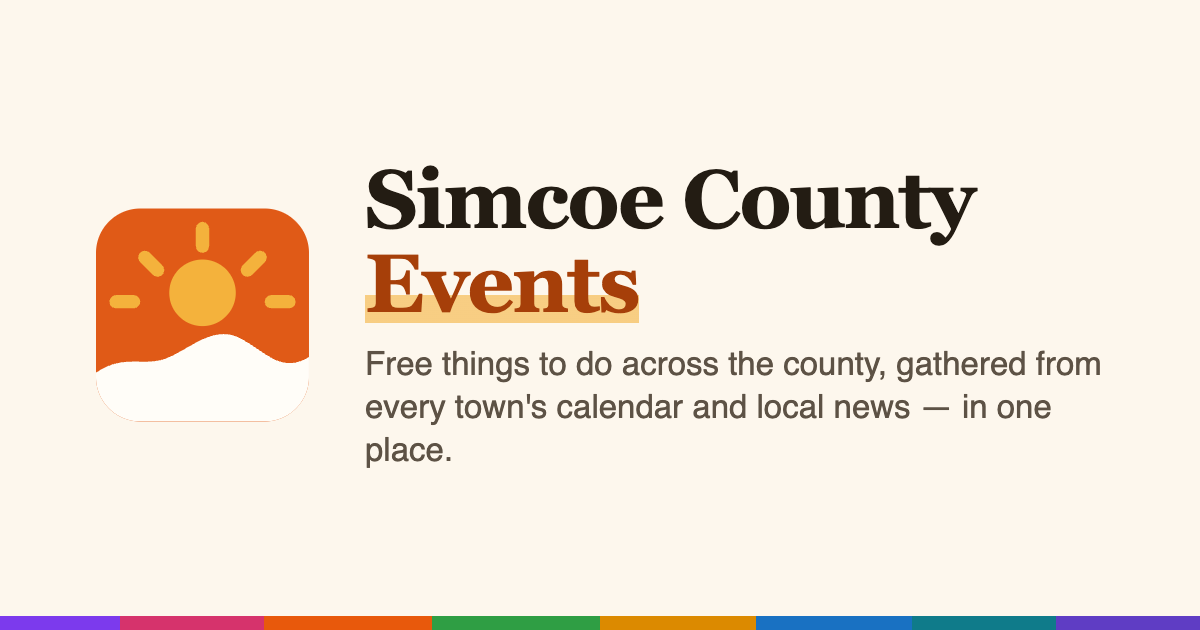
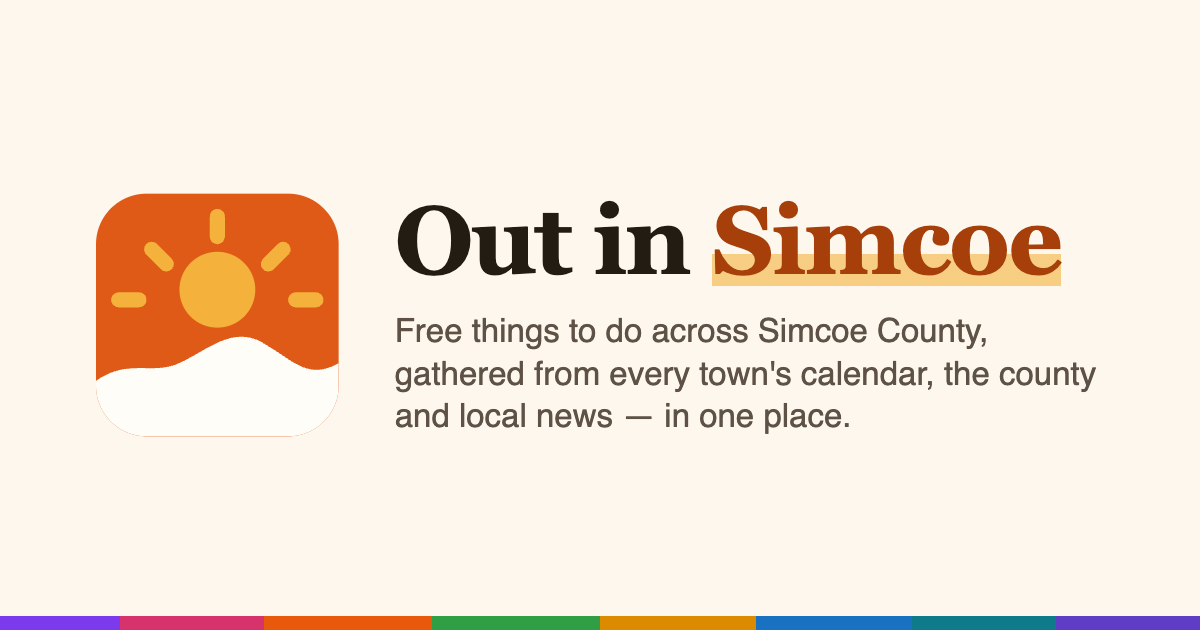
The site is Out in Simcoe, at outinsimcoe.ca
Jeremy registered the domain, so the placeholder name goes. Both the apex and
www are custom domains on the worker, and CANONICAL_HOST names the apex: www
redirects to it, and every share card, permalink and feed URL is pinned to that
one origin no matter which host answered. Without that pin the same event would
have two addresses and shares, caches and search would split between them.

workers.dev stays on as a fallback origin rather than being switched off with
the route declaration, so nothing shared before today breaks; those pages now
carry the new name and a canonical link pointing home.

The name itself: wordmark, title and share metadata, SITE_NAME, the manifest,
the iCal product id and default calendar name, and a re-rendered OG card, which
gained a little type size now that the name is two words shorter.

The iCal UID domain deliberately stays as it was. A UID is an identity, not an
address; rewriting it would make every calendar that has already subscribed
delete and re-add every event.

Changed region(s): [[0.0617, 0.2413, 0.925, 0.754], [0.1233, 0.6635, 0.2158, 0.6937]]

diff --git a/apps/web/public/index.html b/apps/web/public/index.html
@@ -3,24 +3,24 @@
 <head>
 <meta charset="utf-8">
 <meta name="viewport" content="width=device-width,initial-scale=1">
-<title>Simcoe County Events — free things to do, in one place</title>
+<title>Out in Simcoe — free things to do across Simcoe County</title>
 <meta name="description" content="Community events across Simcoe County, Ontario — fairs, markets, concerts, family days and more — gathered from every town's calendar, the county and local news, with duplicates removed. Filter by municipality and subscribe in your own calendar.">
 <meta name="theme-color" content="#e05a17">
 <link rel="canonical" href="__ORIGIN__/">
 <!-- __ORIGIN__ is substituted by the worker with whichever host answered, so shares stay
      correct on the workers.dev origin today and on a custom domain later. -->
 <meta property="og:type" content="website">
-<meta property="og:site_name" content="Simcoe County Events">
+<meta property="og:site_name" content="Out in Simcoe">
 <meta property="og:locale" content="en_CA">
 <meta property="og:url" content="__ORIGIN__/">
-<meta property="og:title" content="Simcoe County Events — free things to do, in one place">
+<meta property="og:title" content="Out in Simcoe — free things to do across Simcoe County">
 <meta property="og:description" content="Community events across Simcoe County, Ontario, gathered from every town's calendar, the county and local news, with duplicates removed.">
 <meta property="og:image" content="__ORIGIN__/og.png">
 <meta property="og:image:width" content="1200">
 <meta property="og:image:height" content="630">
-<meta property="og:image:alt" content="Simcoe County Events — free things to do across the county, in one place.">
+<meta property="og:image:alt" content="Out in Simcoe — free things to do across the county, in one place.">
 <meta name="twitter:card" content="summary_large_image">
-<meta name="twitter:title" content="Simcoe County Events — free things to do, in one place">
+<meta name="twitter:title" content="Out in Simcoe — free things to do across Simcoe County">
 <meta name="twitter:description" content="Community events across Simcoe County, Ontario, in one place.">
 <meta name="twitter:image" content="__ORIGIN__/og.png">
 <link rel="icon" href="/icon.svg" type="image/svg+xml">
@@ -47,7 +47,7 @@
           <path d="M24 4.5v4M11 11l2.9 2.9M37 11l-2.9 2.9M4.5 21h4M39.5 21h4" stroke="var(--accent)" stroke-width="3" stroke-linecap="round"/>
           <path d="M0 48V37c6.5-4.5 11-1 16.5-3.5S27 26 33 29.5 42 37 48 33.5V48Z" fill="currentColor"/>
         </svg>
-        <h1>Simcoe County <span class="hl">Events</span></h1>
+        <h1>Out in <span class="hl">Simcoe</span></h1>
       </div>
       <div class="themeswitch" role="group" aria-label="Theme">
         <button type="button" id="theme-light" aria-pressed="false" aria-label="Light theme" title="Light">
@@ -106,7 +106,7 @@
        "Cost not listed" means the source did not say; confirm details with the organizer before you go.
        Council and committee meetings live at <a href="https://civi-times.ca">Civi-Times</a>.</p>
     <p id="sources-line"></p>
-    <p class="support">Simcoe County Events is a hobby project, free and without ads.
+    <p class="support">Out in Simcoe is a hobby project, free and without ads.
       <a class="bmc" href="https://www.buymeacoffee.com/hZEeGL3" target="_blank" rel="noopener noreferrer">
         <img src="https://cdn.buymeacoffee.com/buttons/v2/default-yellow.png" alt="Buy Me a Coffee"
              width="217" height="60" style="height: 60px !important; width: 217px !important;">

diff --git a/apps/web/src/worker.ts b/apps/web/src/worker.ts
@@ -15,7 +15,17 @@ export interface Env {
   CANONICAL_HOST?: string
 }
 
-const SITE_NAME = 'Simcoe County Events'
+const SITE_NAME = 'Out in Simcoe'
+
+/**
+ * The origin that share cards, permalinks and feed URLs should carry.
+ *
+ * Whichever host answered is the right answer until a domain exists; once CANONICAL_HOST
+ * is set, one origin has to win, or the same event acquires two addresses — one on
+ * workers.dev and one on the domain — and shares, caches and search split between them.
+ */
+const canonicalOrigin = (url: URL, env: Env): string =>
+  env.CANONICAL_HOST ? `https://${env.CANONICAL_HOST}` : url.origin
 
 const json = (data: unknown, cacheSeconds: number): Response =>
   Response.json(data, {
@@ -120,7 +130,7 @@ export default {
         const events = await queryEvents(env, url)
         const names: Record<string, string> = {}
         for (const e of events) if (e.municipalitySlug && e.municipalityName) names[e.municipalitySlug] = e.municipalityName
-        return new Response(buildIcal(events, { calendarName: describeFilters(url, events), baseUrl: url.origin, municipalityNames: names }), {
+        return new Response(buildIcal(events, { calendarName: describeFilters(url, events), baseUrl: canonicalOrigin(url, env), municipalityNames: names }), {
           headers: {
             'Content-Type': 'text/calendar; charset=utf-8',
             'Cache-Control': 'public, max-age=300, s-maxage=1800',
@@ -134,7 +144,7 @@ export default {
         const code = decodeURIComponent(url.pathname.slice('/e/'.length))
         const row = await lookupEvent(env, 'short_code', code)
         if (!row) return new Response('Event not found', { status: 404 })
-        return new Response(renderEventPage(rowToEvent(row), url.origin, listUrlFrom(url)), {
+        return new Response(renderEventPage(rowToEvent(row), canonicalOrigin(url, env), listUrlFrom(url)), {
           headers: { 'Content-Type': 'text/html; charset=utf-8', 'Cache-Control': 'public, max-age=600' },
         })
       }
@@ -144,7 +154,7 @@ export default {
         const id = decodeURIComponent(url.pathname.slice('/event/'.length))
         const row = await lookupEvent(env, 'id', id)
         if (!row) return new Response('Event not found', { status: 404 })
-        return Response.redirect(`${url.origin}/e/${row.short_code}`, 301)
+        return Response.redirect(`${canonicalOrigin(url, env)}/e/${row.short_code}`, 301)
       }
 
       // Share metadata needs ABSOLUTE urls, but the shell is a static file with no idea
@@ -152,7 +162,7 @@ export default {
       // and on a custom domain later.
       const asset = await env.ASSETS.fetch(request)
       if (isShell(url.pathname) && asset.ok) {
-        const html = (await asset.text()).replaceAll('__ORIGIN__', url.origin)
+        const html = (await asset.text()).replaceAll('__ORIGIN__', canonicalOrigin(url, env))
         const headers = new Headers(asset.headers)
         headers.set('Content-Type', 'text/html; charset=utf-8')
         return new Response(html, { status: asset.status, headers })

diff --git a/apps/web/scripts/brand.ts b/apps/web/scripts/brand.ts
@@ -56,7 +56,7 @@ const OG = `<!doctype html><html><head><meta charset="utf-8"><style>
   .card { display: flex; align-items: center; gap: 56px; padding: 0 96px; }
   .text h1 {
     font-family: 'Fraunces', Georgia, serif; font-variation-settings: 'SOFT' 100, 'WONK' 1, 'opsz' 144;
-    font-weight: 800; font-size: 82px; margin: 0 0 18px; letter-spacing: -0.02em; line-height: 1.02;
+    font-weight: 800; font-size: 96px; margin: 0 0 20px; letter-spacing: -0.02em; line-height: 1.02;
   }
   .text p { font-size: 33px; margin: 0; color: #5d5245; line-height: 1.3; max-width: 760px; }
   .accent { color: ${ACCENT_DEEP};
@@ -67,8 +67,8 @@ const OG = `<!doctype html><html><head><meta charset="utf-8"><style>
       #2f9e44 36% 50%, #dc8a00 50% 63%, #1971c2 63% 76%, #0f7b8a 76% 88%, #5f3dc4 88% 100%); }
 </style></head><body><div class="card">
   ${mark(260, ACCENT, PAPER, SUN)}
-  <div class="text"><h1>Simcoe County <span class="accent">Events</span></h1>
-  <p>Free things to do across the county, gathered from every town's calendar and local news — in one place.</p></div>
+  <div class="text"><h1>Out in <span class="accent">Simcoe</span></h1>
+  <p>Free things to do across Simcoe County, gathered from every town's calendar, the county and local news — in one place.</p></div>
 </div><div class="bunting"></div></body></html>`
 
 const browser = await puppeteer.launch({ executablePath: CHROME, headless: true, args: ['--no-sandbox'] })

diff --git a/packages/core/src/ical.ts b/packages/core/src/ical.ts
@@ -12,7 +12,12 @@ import type { Event } from './types.ts'
  * UIDs use the cluster id, which is sticky across re-clustering.
  */
 
-const PRODID = '-//scec//Simcoe County community events//EN'
+const PRODID = '-//outinsimcoe//Out in Simcoe community events//EN'
+/*
+ * Not the site's domain, and deliberately left alone when the site was named: a UID is
+ * an identity, not an address. Changing it would make every calendar that has already
+ * subscribed treat every event as brand new, deleting and re-adding the lot.
+ */
 const UID_DOMAIN = 'events.simcoe'
 
 /** RFC 5545 §3.3.11: backslash, semicolon and comma are escaped; newlines become \n. */
@@ -77,7 +82,7 @@ export interface IcalOptions {
 
 export function buildIcal(events: Event[], options: IcalOptions = {}): string {
   const {
-    calendarName = 'Simcoe County community events',
+    calendarName = 'Out in Simcoe — community events',
     baseUrl,
     refreshIntervalHours = 6,
     municipalityNames = {},

diff --git a/apps/web/public/style.css b/apps/web/public/style.css
@@ -1,5 +1,5 @@
 /*
- * Simcoe County Events.
+ * Out in Simcoe — community events across Simcoe County.
  *
  * The layout came from Civi-Times, but the two sites are not doing the same job: one is a
  * civic record, this one is an invitation. So the bones are shared and the surface is not

diff --git a/apps/web/public/app.js b/apps/web/public/app.js
@@ -1,5 +1,5 @@
 /**
- * Simcoe County Events front end.
+ * Out in Simcoe front end.
  *
  * The whole upcoming dataset is a few hundred KB, so it is fetched once and every filter
  * runs in the browser — instant, with no round trip per keystroke. Filter state lives in

diff --git a/CLAUDE.md b/CLAUDE.md
@@ -4,7 +4,7 @@ Guidance for Claude Code when working in this repository.
 
 ## What this is
 
-A public calendar of community events across Simcoe County, Ontario — the county, its 16
+**Out in Simcoe** (outinsimcoe.ca) — a public calendar of community events across Simcoe County, Ontario — the county, its 16
 member municipalities, and the separated cities of Barrie and Orillia — aggregated from
 municipal, county, library and local-media calendars and **de-duplicated across sources**.
 TypeScript monorepo (npm workspaces) targeting Cloudflare Workers + D1, built on the same
@@ -67,8 +67,11 @@ printf '%s' "$ANTHROPIC_API_KEY" | npx wrangler secret put ANTHROPIC_API_KEY --c
 curl -X POST "https://scec-ingest.thejeremy-net.workers.dev/run?token=$INGEST_TOKEN"
 ```
 
-- Site: https://scec-web.thejeremy-net.workers.dev (no custom domain yet; `CANONICAL_HOST`
-  var enables the www redirect once one is attached)
+- Site: https://outinsimcoe.ca (Worker `scec-web`; `scec-web.thejeremy-net.workers.dev`
+  still answers as a fallback). `outinsimcoe.ca` and `www.outinsimcoe.ca` are custom
+  domains on the worker; `CANONICAL_HOST` in `wrangler.jsonc` names the apex, which makes
+  the worker redirect `www` to it and pin every share card, permalink and feed URL to one
+  origin no matter which host answered.
 - Ingest: https://scec-ingest.thejeremy-net.workers.dev (token-guarded, not public)
 - `.env` is gitignored, as is `jeremy-atlassian-token.key`. Keep it that way.
 
@@ -115,6 +118,9 @@ curl -X POST "https://scec-ingest.thejeremy-net.workers.dev/run?token=$INGEST_TO
 - **A typed date range replaces the "upcoming only" default** rather than narrowing it —
   see `inDateScope`. Someone who asks for last week means last week, whatever the "Past
   events" box says. `from`/`to` also ride along to the iCal feed.
+- **The iCal UID domain is not the site's domain**, and was left alone when the site was
+  named. A UID is an identity, not an address: changing it makes every subscribed calendar
+  delete and re-add every event. See the comment in `packages/core/src/ical.ts`.
 - **The mark exists in three copies**: inline in `public/index.html`, as `MARK` in
   `apps/web/src/worker.ts` (both in CSS variables) and in `scripts/brand.ts` (hardcoded
   hex, because a screenshot cannot read CSS variables). Change one, change all three, and

diff --git a/docs/naming.md b/docs/naming.md
@@ -1,6 +1,11 @@
 # Names and domains
 
-The site ships under the placeholder **Simcoe County Events** on `scec-web.thejeremy-net.workers.dev`.
+**Decided 2026-09-13: the site is Out in Simcoe, at https://outinsimcoe.ca.** Jeremy
+registered the domain; it is a custom domain on the `scec-web` worker alongside
+`www.outinsimcoe.ca`, which redirects to the apex. The workers.dev host still answers as a
+fallback. What follows is the shortlist the choice came from, kept for the record.
+
+The site previously shipped under the placeholder **Simcoe County Events** on `scec-web.thejeremy-net.workers.dev`.
 Nothing in the code depends on the name except the wordmark in `apps/web/public/index.html`,
 `SITE_NAME` in `apps/web/src/worker.ts`, the manifest, and the card that `scripts/brand.ts`
 renders — a rename is those four files and one script run.
@@ -60,9 +65,16 @@ and lose some of ours. Keeping "County" fixes that at the cost of a longer domai
 **Prefer `.ca`.** It signals a local project, it is what the municipal sites use, and it
 matches Civi-Times. Buy the matching `.com` only to keep it from someone else.
 
-## When one is chosen
+## What attaching it took (SCEC-33, done)
 
-SCEC-33 covers attaching it: register, add a Cloudflare custom domain to the `scec-web`
-Worker, set the `CANONICAL_HOST` var so the `www` host redirects, then update the wordmark,
-`SITE_NAME`, the manifest and the OG card, and re-run `brand.ts`. Short links already use
-whichever origin served them, so old `workers.dev` links keep working.
+Two custom domains on the worker (apex and `www`), `CANONICAL_HOST` set to the apex in
+`wrangler.jsonc`, then the name itself: the wordmark, `<title>` and share metadata,
+`SITE_NAME` in the worker, the manifest, the iCal product id and default calendar name,
+and the OG card re-rendered by `brand.ts`.
+
+One thing deliberately did not change: the iCal UID domain. A UID is an identity, not an
+address, and rewriting it would make every subscribed calendar delete and re-add every
+event.
+
+Old `workers.dev` links keep working, and now answer with the new name and a canonical
+link pointing at the domain, so nothing that was shared before the rename is orphaned.

diff --git a/README.md b/README.md
@@ -1,11 +1,11 @@
-# Simcoe County Events
+# Out in Simcoe
 
 A public calendar of community events across Simcoe County, Ontario — the county, its 16
 member municipalities, and the cities of Barrie and Orillia — gathered from municipal, county,
 library and local-media calendars and **de-duplicated across sources**, so the same fall fair
 listed by the township, the county and the local news site shows up once.
 
-Live: https://scec-web.thejeremy-net.workers.dev (custom domain to come)
+Live: **https://outinsimcoe.ca** (`scec-web.thejeremy-net.workers.dev` still answers as a fallback)
 
 - List and month-calendar views, filtered by municipality, category and cost, including a
   "Not specified" option for the events no town could be resolved for
